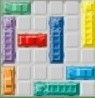
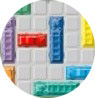
UI improvement

diff --git a/core/src/com/mygdx/game/Levels.java b/core/src/com/mygdx/game/Levels.java
@@ -96,8 +96,9 @@ public class Levels extends BaseScreen {
 		targets[6]=19;
 		targets[7]=20;
 		numOfMoves=0;
-		targetMoveCount=new Label("Minimum number of moves :"+targets[levelno], game.skin,"uiLabelStyle");
-		move_count=new Label("Number Of Moves :"+numOfMoves, game.skin,"uiLabelStyle");
+		targetMoveCount=new Label("0", game.skin,"label_font");
+//		targetMoveCount=new Label("Minimum number of moves :"+targets[levelno], game.skin,"uiLabelStyle");
+//		move_count=new Label("Number Of Moves :"+numOfMoves, game.skin,"uiLabelStyle");
 		index=0;
 		speed=10;
 		gox=0;
@@ -318,7 +319,7 @@ public class Levels extends BaseScreen {
 		uiTable.row();
 
 
-		mainStage.addActor(move_count);
+//		mainStage.addActor(move_count);
 		mainStage.addActor(targetMoveCount);
 		mainStage.addActor(message);
 		message.setVisible(false);
@@ -341,7 +342,8 @@ public class Levels extends BaseScreen {
 	@Override
 	public void update(float dt) {
 		// TODO Auto-generated method stub
-		targetMoveCount.setText("Minimum number of moves :"+targets[levelno-1]);
+		targetMoveCount.setText("" + numOfMoves);
+		targetMoveCount.setPosition(VIEW_WIDTH/2 - 5, 5*VIEW_HEIGHT/6 + 10);
 
 		for(Car x:cars){
 			x.setWidth(half_of_view_width/width_tiles*x.width);
@@ -393,7 +395,7 @@ public class Levels extends BaseScreen {
 					uiTable.setBackground(game.skin.getDrawable("space_backgroundSP"));
 				else
 					uiTable.setBackground(game.skin.getDrawable("background_blurred"));
-				move_count.setVisible(false);
+//				move_count.setVisible(false);
 				targetMoveCount.setVisible(false);
 				Image starImage;
 				if(sScores.getScores().get(levelno - 1) == 0) 
@@ -469,9 +471,9 @@ public class Levels extends BaseScreen {
 		}
 		
 		
-		backgroundForInfo.setPosition(0,360);
-		backgroundForInfo.setWidth(240);
-		backgroundForInfo.setHeight(100);
+		backgroundForInfo.setPosition(VIEW_WIDTH/2 - 100, 5*VIEW_HEIGHT/6 - 20);
+		backgroundForInfo.setWidth(200);
+		backgroundForInfo.setHeight(80);
 		//finish black
 
 //		shape_renderer.begin(ShapeType.Filled);
@@ -508,8 +510,8 @@ public class Levels extends BaseScreen {
 //				shape_renderer.end();
 		
 		mainStage.draw();
-		move_count.setText("Number Of Moves :"+numOfMoves);
-		move_count.setPosition(VIEW_WIDTH/2-300,VIEW_HEIGHT-100);
+//		move_count.setText("Number Of Moves :"+numOfMoves);
+//		move_count.setPosition(VIEW_WIDTH/2-300,VIEW_HEIGHT-100);
 		targetMoveCount.setPosition(VIEW_WIDTH/2-300,VIEW_HEIGHT-60 );
 		returnMenu.setPosition(10,20);
 		returnMenu.setWidth(150);

diff --git a/core/src/com/mygdx/game/BaseScreen.java b/core/src/com/mygdx/game/BaseScreen.java
@@ -13,6 +13,7 @@ import com.badlogic.gdx.graphics.Texture;
 import com.badlogic.gdx.graphics.g2d.BitmapFont;
 import com.badlogic.gdx.graphics.g2d.NinePatch;
 import com.badlogic.gdx.scenes.scene2d.Stage;
+import com.badlogic.gdx.scenes.scene2d.ui.Label.LabelStyle;
 import com.badlogic.gdx.scenes.scene2d.ui.Table;
 import com.badlogic.gdx.scenes.scene2d.ui.TextButton.TextButtonStyle;
 import com.badlogic.gdx.utils.viewport.FitViewport;
@@ -47,8 +48,8 @@ public abstract class BaseScreen implements Screen, InputProcessor {
 		buttonStyle1.font=font;
 		buttonStyle2.font=font;
 		buttonStyle3.font=font;
-		Texture upButton1=new Texture("level1.jpeg");
-		Texture overButton1=new Texture("level1over.jpeg");
+		Texture upButton1=new Texture("level1.png");
+		Texture overButton1=new Texture("level1over.png");
 		Texture locked=new Texture("lock.png");
 		Texture returnM=new Texture("arrow.png");
 		Texture overarrow=new Texture("overarrow.png");
@@ -217,6 +218,9 @@ public abstract class BaseScreen implements Screen, InputProcessor {
 		game.skin.add("obs_car_horiz_Theme2", obs_car_horiz_Theme2);
 		game.skin.add("truck_vert_Theme2", truck_vert_Theme2);
 		game.skin.add("truck_horiz_Theme2", truck_horiz_Theme2);
+		
+		LabelStyle style = new LabelStyle(font, Color.WHITE);
+		game.skin.add("label_font", style);
 	}
 
 	public BaseScreen(BaseGame game) {

diff --git a/core/src/com/mygdx/game/Singleplayer.java b/core/src/com/mygdx/game/Singleplayer.java
@@ -52,14 +52,14 @@ public class Singleplayer extends BaseScreen {
 		buton=Gdx.audio.newSound(Gdx.files.internal("button.ogg"));
 		game.skin.add("buton", buton,Sound.class);
 		TextButtonStyle aa=game.skin.get("buttonStyle1", TextButtonStyle.class);
-		lev1=new Label("Level1", game.skin,"uiLabelStyle");
-		lev2=new Label("Level2", game.skin,"uiLabelStyle");
-		lev3=new Label("Level3", game.skin,"uiLabelStyle");
-		lev4=new Label("Level4", game.skin,"uiLabelStyle");
-		lev5=new Label("Level5", game.skin,"uiLabelStyle");
-		lev6=new Label("Level6", game.skin,"uiLabelStyle");
-		lev7=new Label("Level7", game.skin,"uiLabelStyle");
-		lev8=new Label("Level8", game.skin,"uiLabelStyle");
+		lev1=new Label("Level1", game.skin,"label_font");
+		lev2=new Label("Level2", game.skin,"label_font");
+		lev3=new Label("Level3", game.skin,"label_font");
+		lev4=new Label("Level4", game.skin,"label_font");
+		lev5=new Label("Level5", game.skin,"label_font");
+		lev6=new Label("Level6", game.skin,"label_font");
+		lev7=new Label("Level7", game.skin,"label_font");
+		lev8=new Label("Level8", game.skin,"label_font");
 		
 		
 		level1=new TextButton("", game.skin, "buttonStyle1");
